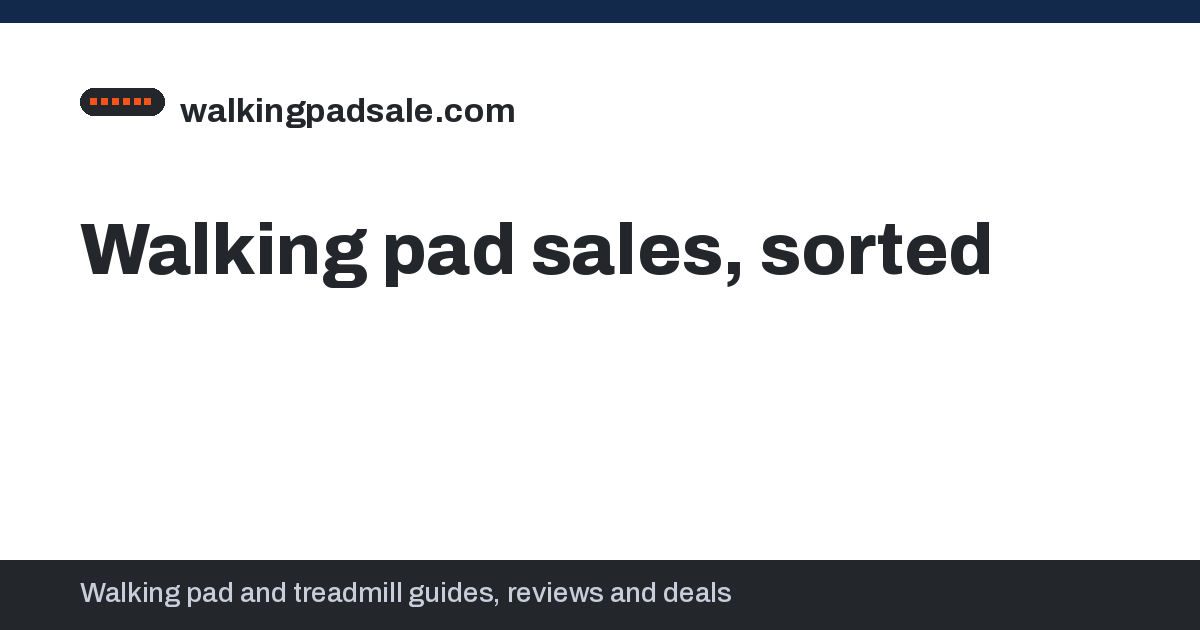
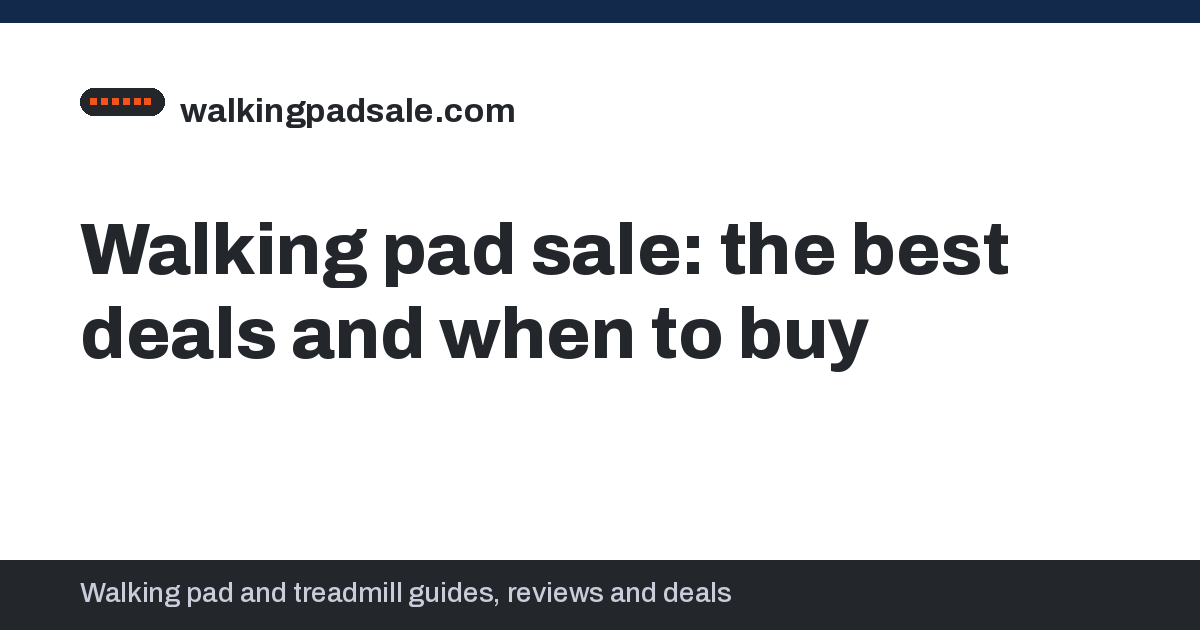
Homepage H1 leads with the exact main keyword
Claude-Session: https://claude.ai/code/session_01PwVVoGGH7qCxBAbjdx6wpb

Changed region(s): [[0.0617, 0.4825, 0.74, 0.6032], [0.555, 0.3317, 0.8633, 0.4524]]

diff --git a/lib/theme.css b/lib/theme.css
@@ -22,7 +22,7 @@ a:hover{color:var(--tangerine-deep)}
 @keyframes belt{from{background-position:0 0}to{background-position:-600px 0}}
 @media (prefers-reduced-motion:reduce){.hero::before{animation:none}}
 .hero .shell{position:relative;padding-top:3.6rem;padding-bottom:5.2rem;display:grid;grid-template-columns:1.2fr .8fr;gap:2.5rem;align-items:center}
-.hero h1{font:900 clamp(2.8rem,6.6vw,5.4rem)/.95 var(--display);font-stretch:68%;letter-spacing:-.01em;margin:0 0 1.2rem;color:#fff;max-width:13ch}
+.hero h1{font:900 clamp(2.6rem,5.4vw,4.4rem)/.95 var(--display);font-stretch:68%;letter-spacing:-.01em;margin:0 0 1.2rem;color:#fff;max-width:13ch}
 .hero p{font-size:1.2rem;color:#C9CED6;max-width:44ch;margin:0 0 1rem}
 .hero small{color:#9BA2AD;font-size:.9rem}
 .speedo{background:var(--belt-2);border-radius:18px;padding:1.4rem 1.5rem}
